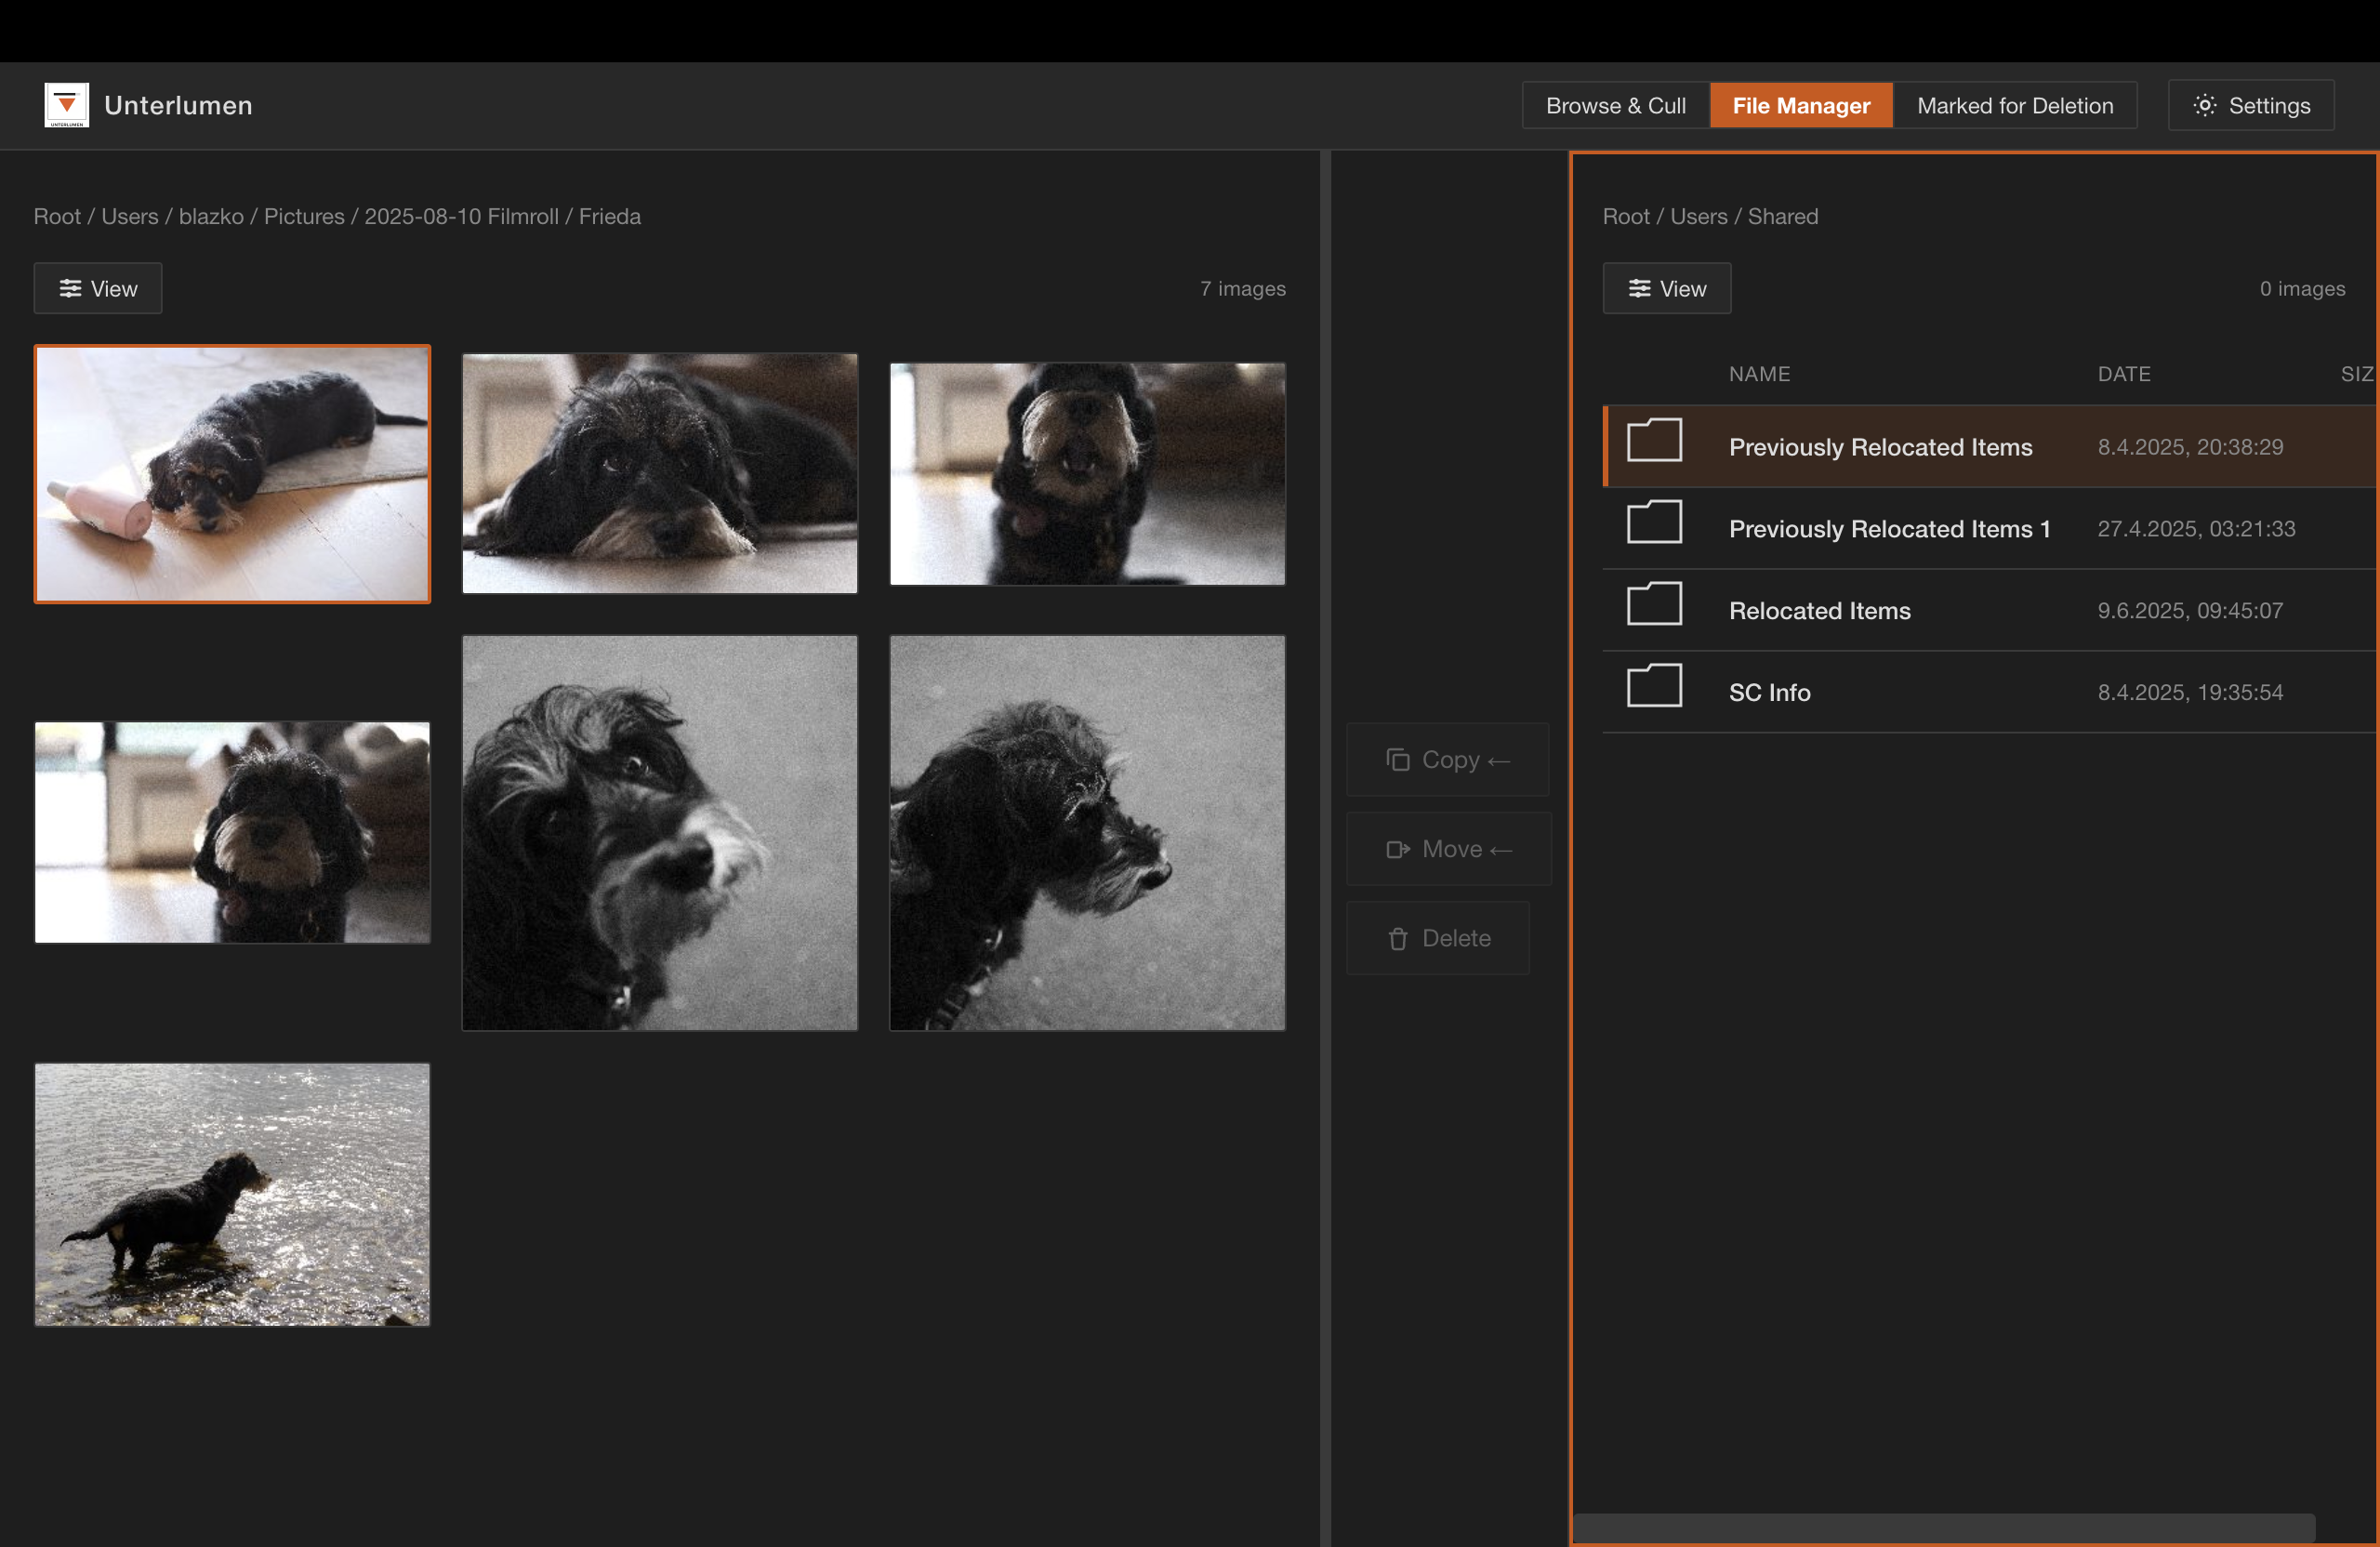
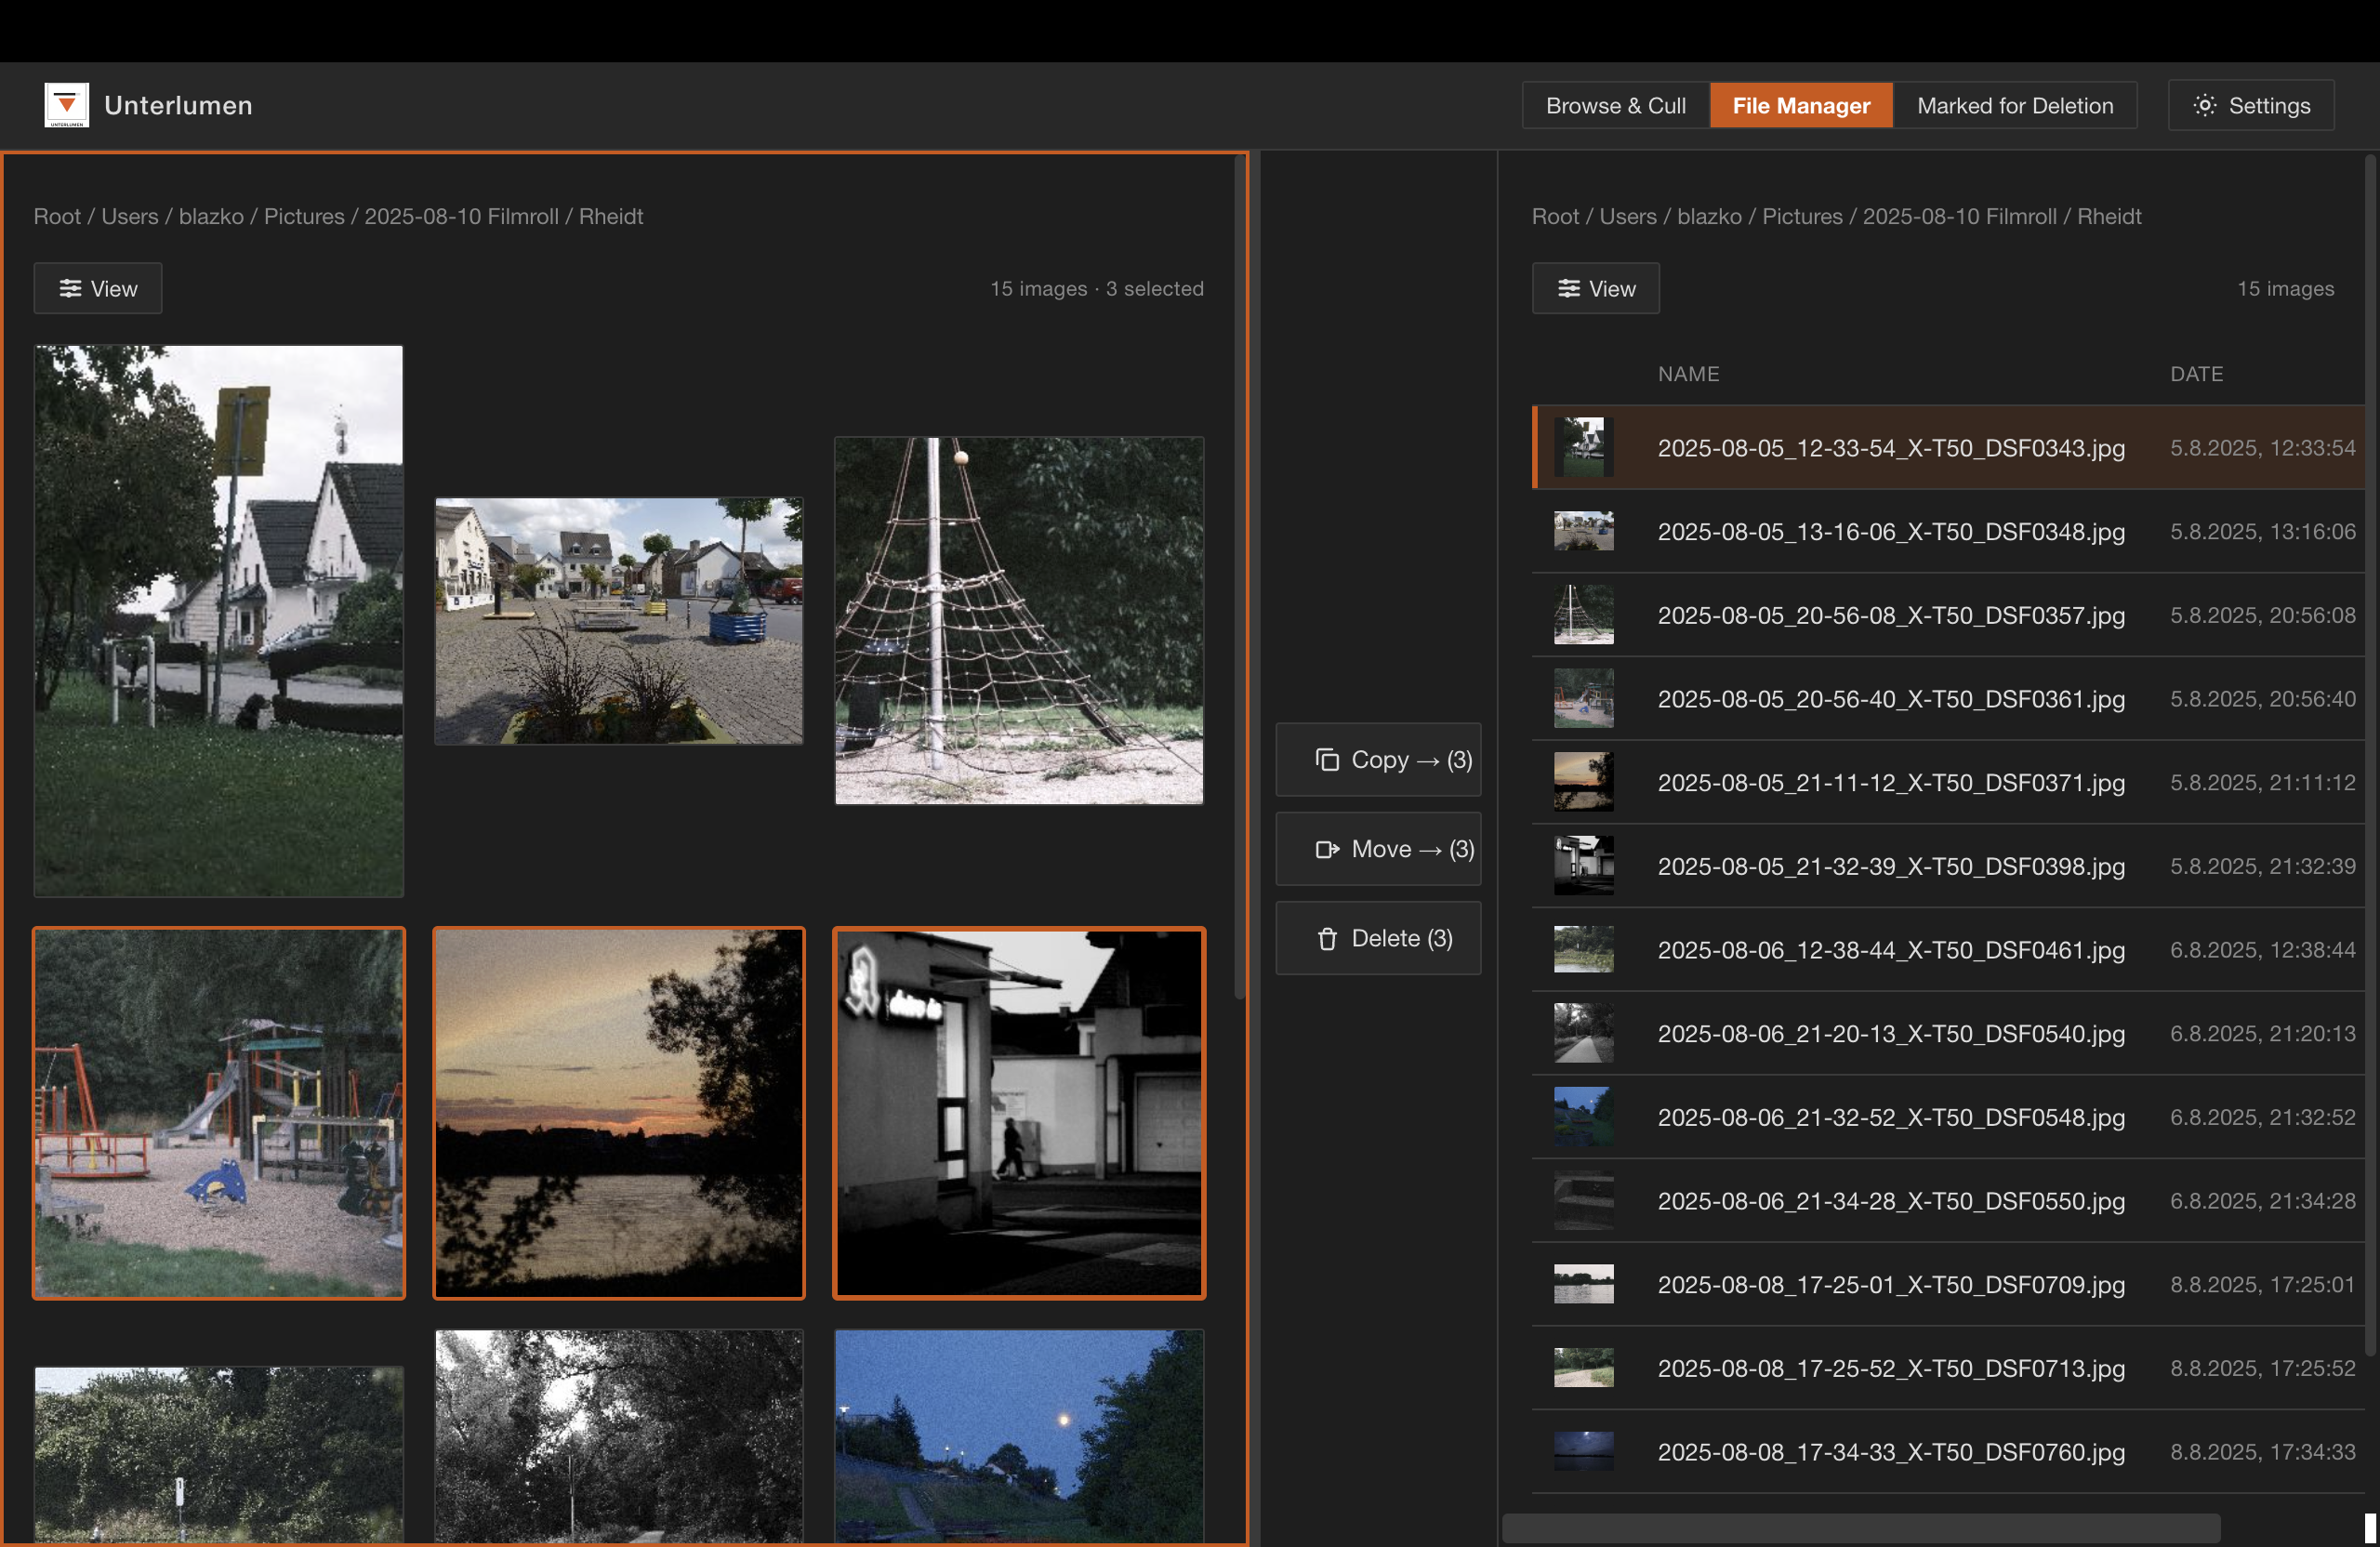
updated README

diff --git a/README.md b/README.md
@@ -21,7 +21,7 @@ A photo browser and culler that runs as a local web server. Browse your photo li
 Browse mode:
 ![Browse mode](doc/screenshot-1-overview.png)
 
-Fullscreen, here with optional file and EXIF data)::
+Fullscreen (here with optional file and EXIF data):
 ![File Manager mode](doc/screenshot-2-fullscreen-and-exif.png)
 
 File manager  ("Commander style") mode: